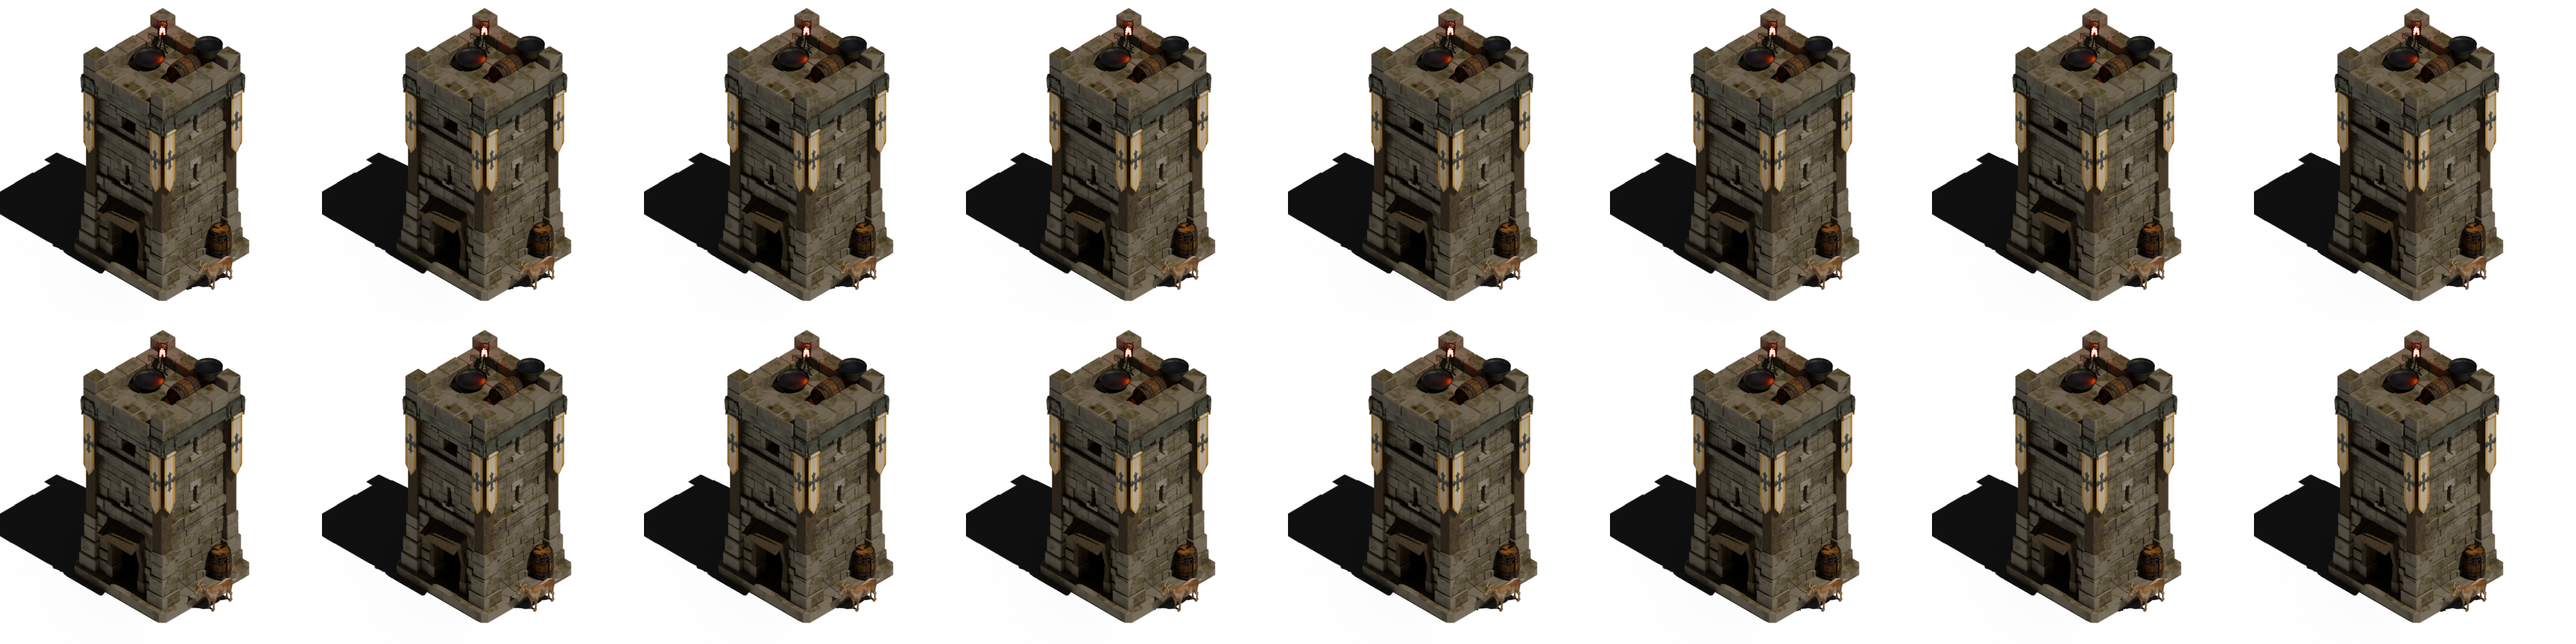
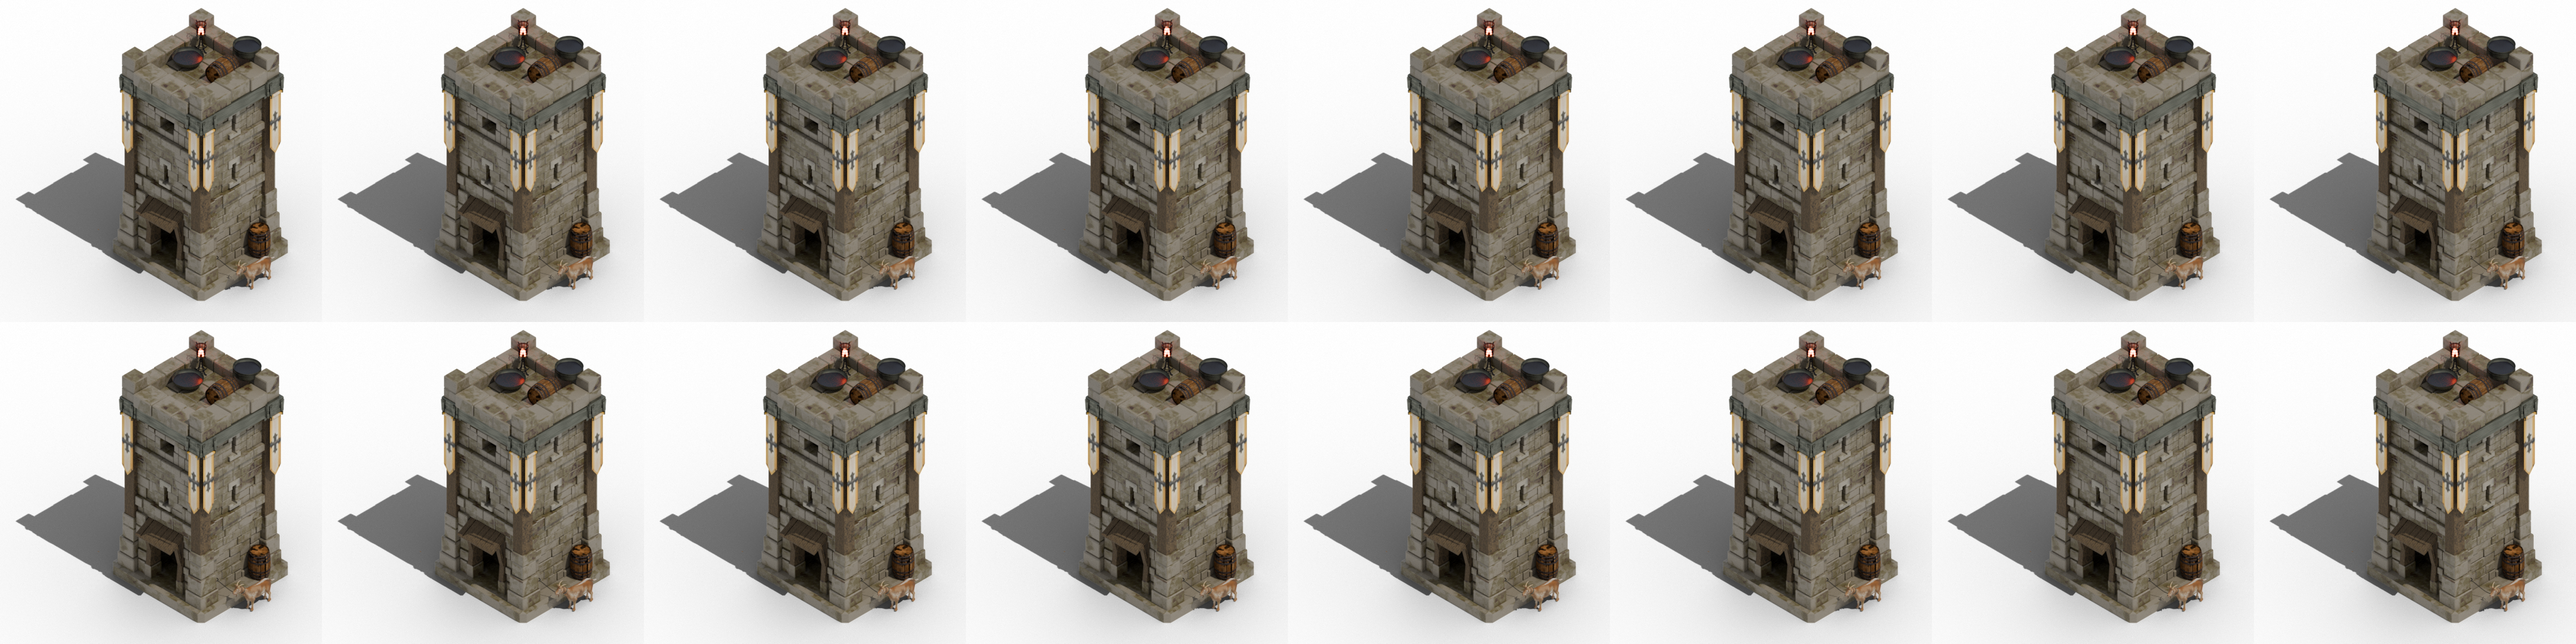
fix tower shadows and alignment

diff --git a/libopenage/gamestate/fvd_test.cpp b/libopenage/gamestate/fvd_test.cpp
@@ -348,8 +348,12 @@ void fvd_scenario() {
 	TESTEQUALS(tower_sheet.get_subtex_count(), size_t{16});
 	TESTEQUALS(tower_sheet.get_subtex_info(0).get_size()[0], uint32_t{512});
 	TESTEQUALS(tower_sheet.get_subtex_info(0).get_size()[1], uint32_t{512});
+	TESTEQUALS(tower_sheet.get_subtex_info(0).get_anchor_pos()[0], 318);
+	TESTEQUALS(tower_sheet.get_subtex_info(0).get_anchor_pos()[1], 409);
 	TESTEQUALS(tower_sheet.get_subtex_info(15).get_size()[0], uint32_t{512});
 	TESTEQUALS(tower_sheet.get_subtex_info(15).get_size()[1], uint32_t{512});
+	TESTEQUALS(tower_sheet.get_subtex_info(15).get_anchor_pos()[0], 318);
+	TESTEQUALS(tower_sheet.get_subtex_info(15).get_anchor_pos()[1], 409);
 	for (const auto &idle_name : {"ethereal-hunter-horse-idle1_page_00.texture",
 	                              "ethereal-hunter-horse-idle1_page_01.texture",
 	                              "ethereal-hunter-horse-idle2.texture"}) {
